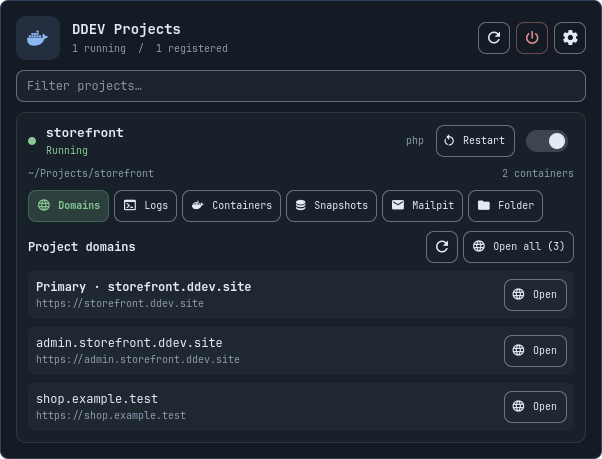
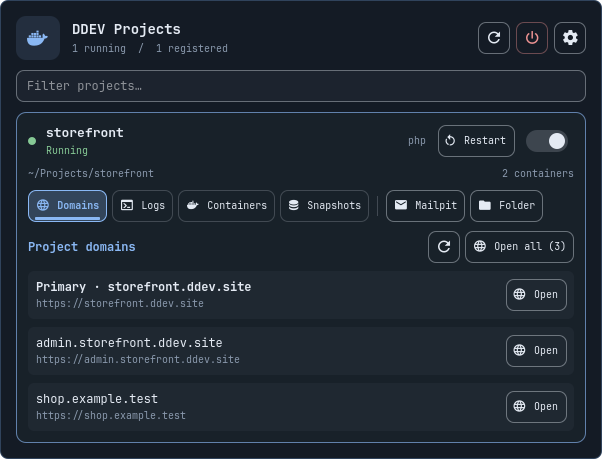
Highlight active detail tabs and show one view at a time

diff --git a/Panel.qml b/Panel.qml
@@ -27,8 +27,28 @@ Panel {
     property bool monitoringEnabled: true
     property bool alertsEnabled: Boolean(setting("alertsEnabled", true))
     property var containers: []
-    property string applicationProject: ""
-    property string domainProject: ""
+    property var activeDetail: ({project: "", tab: ""})
+    readonly property string detailProject: activeDetail.project
+    readonly property string applicationProject: activeDetail.tab === "containers" ? activeDetail.project : ""
+    readonly property string domainProject: activeDetail.tab === "domains" ? activeDetail.project : ""
+    function isDetail(name, tab) { return activeDetail.project === name && activeDetail.tab === tab }
+    function closeDetails() {
+        activeDetail = {project: "", tab: ""}
+        pendingRestore = ""
+        snapshots = []
+        var names = Object.keys(logViews)
+        for (var i = 0; i < names.length; i++) {
+            if (logFor(names[i]).open) {
+                updateLog(names[i], {open: false})
+                stopLog(names[i], false)
+            }
+        }
+    }
+    function activateDetail(name, tab) {
+        if (isDetail(name, tab)) return
+        closeDetails()
+        activeDetail = {project: name, tab: tab}
+    }
     property var domainViews: ({})
     function domainFor(name) { return domainViews[name] || {items: []} }
     function updateDomains(name, patch) {
@@ -37,8 +57,11 @@ Panel {
         domainViews = next
     }
     function showDomains(name) {
-        domainProject = domainProject === name ? "" : name
-        if (domainProject) { updateDomains(name, {error: ""}); execute("domains", name, "") }
+        if (isDetail(name, "domains")) { closeDetails(); return }
+        if (projectBusy(name)) return
+        activateDetail(name, "domains")
+        updateDomains(name, {error: ""})
+        execute("domains", name, "")
     }
     property string monitorWarning: ""
     property string eventWarning: ""
@@ -52,6 +75,7 @@ Panel {
         logViews = next
     }
     function selectLog(name) {
+        activateDetail(name, "logs")
         var view = logFor(name)
         // Opening an existing viewer must not clear a still-running stream.
         updateLog(name, {open: true, expanded: view.expanded === undefined ? false : view.expanded,
@@ -59,11 +83,11 @@ Panel {
         refreshLog(name)
     }
     function closeLog(name) {
-        updateLog(name, {open: false})
-        stopLog(name, false)
+        if (isDetail(name, "logs")) closeDetails()
+        else { updateLog(name, {open: false}); stopLog(name, false) }
     }
     function toggleLog(name) {
-        if (logFor(name).open) closeLog(name)
+        if (isDetail(name, "logs")) closeLog(name)
         else selectLog(name)
     }
     function logSignature(name) { return containersFor(name).map(c => c.id).sort().join(",") }
@@ -81,7 +105,7 @@ Panel {
     }
     function refreshLog(name) {
         var view = logFor(name)
-        if (!view.open) return
+        if (!view.open || !isDetail(name, "logs")) return
         if (logJobs[name]) {
             // A close/reopen can arrive before the previous reader exits.
             if (logJobs[name].cancelled) logJobs[name].restartRequested = true
@@ -106,8 +130,9 @@ Panel {
         monitor.running = true
     }
     function showApplications(name) {
-        applicationProject = applicationProject === name ? "" : name
-        if (applicationProject) refreshContainers()
+        if (isDetail(name, "containers")) { closeDetails(); return }
+        activateDetail(name, "containers")
+        refreshContainers()
     }
     function announce(alerts) {
         if (!monitoringEnabled || !alertsEnabled) return
@@ -142,7 +167,7 @@ Panel {
         entry.alertsEnabled = value
         if (bar && bar.shell && typeof bar.shell.updateEntryInline === "function") bar.shell.updateEntryInline(moduleName, entry)
     }
-    property string selectedName: ""
+    readonly property string selectedName: activeDetail.tab === "snapshots" ? activeDetail.project : ""
     property string warning: ""
     property var jobs: ({})
     readonly property bool busy: Object.keys(jobs).length > 0
@@ -164,6 +189,9 @@ Panel {
     property string pendingRestore: ""
     property string pendingLabel: ""
     property string query: ""
+    onQueryChanged: Qt.callLater(function() {
+        if (root.detailProject && !root.filteredProjects.some(p => p.name === root.detailProject)) root.closeDetails()
+    })
     property bool settingsOpen: false
     property bool poweroffConfirm: false
     property var projectOutputs: ({})
@@ -222,11 +250,10 @@ Panel {
         return true
     }
     function selectProject(name) {
+        if (isDetail(name, "snapshots")) { closeDetails(); return }
         if (projectBusy(name)) return
-        selectedName = selectedName === name ? "" : name
-        snapshots = []
-        pendingRestore = ""
-        if (selectedName) execute("snapshots", name, "")
+        activateDetail(name, "snapshots")
+        execute("snapshots", name, "")
     }
     function finishJob(job, exitCode) {
         if (!job.receivedResult) {
@@ -602,7 +629,7 @@ Panel {
                         radius: Style.space(10)
                         color: Util.alpha(projectRow.statusColor, busy ? 0.08 : 0.035)
                         border.width: 1
-                        border.color: Util.alpha(projectRow.statusColor, busy ? 0.5 : 0.18)
+                        border.color: root.detailProject === modelData.name ? Util.alpha(Commons.Color.accent, 0.65) : Util.alpha(projectRow.statusColor, busy ? 0.5 : 0.18)
                         Behavior on color { ColorAnimation { duration: 180 } }
                         Column {
                             id: projectContent
@@ -668,35 +695,47 @@ Panel {
                                 objectName: "projectActions-" + projectRow.modelData.name
                                 width: parent.width
                                 spacing: Style.space(5)
-                                ToolbarAction {
+                                DetailTab {
+                                    projectName: projectRow.modelData.name
+                                    viewName: "domains"
                                     objectName: "openProjectSite-" + projectRow.modelData.name
-                                    text: "Domains"; iconText: ""; foreground: root.success
-                                    tooltipText: "Project domains and Open all"
-                                    selected: root.domainProject === projectRow.modelData.name
-                                    enabled: !projectRow.busy && projectRow.running
+                                    text: "Domains"; iconText: ""
+                                    tooltipText: selected ? "Close domains" : "Open project domains"
+                                    enabled: selected || (!projectRow.busy && projectRow.running)
                                     onClicked: root.showDomains(projectRow.modelData.name)
                                 }
-                                ToolbarAction {
+                                DetailTab {
+                                    projectName: projectRow.modelData.name
+                                    viewName: "logs"
                                     objectName: "openProjectLogs-" + projectRow.modelData.name
                                     text: "Logs"; iconText: ""
-                                    selected: !!root.logFor(projectRow.modelData.name).open
                                     tooltipText: root.logFor(projectRow.modelData.name).open ? "Close project logs" : "Open project logs"
                                     onClicked: root.toggleLog(projectRow.modelData.name)
                                 }
-                                ToolbarAction {
+                                DetailTab {
+                                    projectName: projectRow.modelData.name
+                                    viewName: "containers"
                                     objectName: "showProjectContainers-" + projectRow.modelData.name
                                     text: "Containers"; iconText: ""
-                                    selected: root.applicationProject === projectRow.modelData.name
-                                    tooltipText: "Container overview and live statistics"
+                                    tooltipText: selected ? "Close container overview" : "Open container overview"
                                     onClicked: root.showApplications(projectRow.modelData.name)
                                 }
-                                ToolbarAction {
+                                DetailTab {
+                                    projectName: projectRow.modelData.name
+                                    viewName: "snapshots"
                                     objectName: "showProjectSnapshots-" + projectRow.modelData.name
                                     text: "Snapshots"; iconText: ""
-                                    selected: root.selectedName === projectRow.modelData.name
-                                    tooltipText: "Database snapshots"
-                                    enabled: !projectRow.busy
+                                    tooltipText: selected ? "Close snapshots" : "Open database snapshots"
+                                    enabled: selected || !projectRow.busy
                                     onClicked: root.selectProject(projectRow.modelData.name)
+                                }
+                                Rectangle {
+                                    Layout.preferredWidth: 1
+                                    Layout.preferredHeight: Style.space(20)
+                                    Layout.leftMargin: Style.space(3)
+                                    Layout.rightMargin: Style.space(3)
+                                    Layout.alignment: Qt.AlignVCenter
+                                    color: Util.alpha(root.foreground, 0.2)
                                 }
                                 ToolbarAction {
                                     objectName: "openProjectMailpit-" + projectRow.modelData.name
@@ -719,7 +758,7 @@ Panel {
                                 visible: root.domainProject === projectRow.modelData.name
                                 RowLayout {
                                     width: parent.width
-                                    Label { text: "Project domains"; font.bold: true; Layout.fillWidth: true }
+                                    Label { text: "Project domains"; color: Commons.Color.accent; font.bold: true; Layout.fillWidth: true }
                                     IconAction { iconText: ""; tooltipText: "Refresh domains"; enabled: !projectRow.busy; onClicked: root.execute("domains", projectRow.modelData.name, "") }
                                     ToolbarAction {
                                         objectName: "openAllDomains-" + projectRow.modelData.name
@@ -763,7 +802,7 @@ Panel {
                                 width: parent.width
                                 spacing: Style.space(8)
                                 visible: root.applicationProject === projectRow.modelData.name
-                                Label { text: "Containers"; font.bold: true }
+                                Label { text: "Containers"; color: Commons.Color.accent; font.bold: true }
                                 Label { width: parent.width; text: root.monitorWarning; visible: text !== ""; wrapMode: Text.Wrap; color: root.progress }
                                 Label { text: "No containers found. Start the project to create them."; visible: projectRow.serviceContainers.length === 0; width: parent.width; wrapMode: Text.Wrap; color: root.muted }
                                 Repeater {
@@ -800,10 +839,10 @@ Panel {
                             Column {
                                 width: parent.width
                                 spacing: Style.space(8)
-                                visible: !!root.logFor(projectRow.modelData.name).open
+                                visible: root.isDetail(projectRow.modelData.name, "logs") && !!root.logFor(projectRow.modelData.name).open
                                 RowLayout {
                                     width: parent.width
-                                    Label { text: "Project logs"; Layout.fillWidth: true; elide: Text.ElideRight; font.bold: true }
+                                    Label { text: "Project logs"; color: Commons.Color.accent; Layout.fillWidth: true; elide: Text.ElideRight; font.bold: true }
                                     Action { text: "Live"; selected: !!root.logFor(projectRow.modelData.name).live; onClicked: root.setLogLive(projectRow.modelData.name, !root.logFor(projectRow.modelData.name).live) }
                                     IconAction { iconText: ""; tooltipText: "Refresh logs"; onClicked: root.stopLog(projectRow.modelData.name, true) }
                                     IconAction { objectName: "closeProjectLogs-" + projectRow.modelData.name; iconText: ""; tooltipText: "Close log viewer"; onClicked: root.closeLog(projectRow.modelData.name) }
@@ -839,7 +878,7 @@ Panel {
                                 visible: root.selectedName === projectRow.modelData.name
                                 RowLayout {
                                     width: parent.width
-                                    Label { text: "Database snapshots"; font.bold: true; Layout.fillWidth: true }
+                                    Label { text: "Database snapshots"; color: Commons.Color.accent; font.bold: true; Layout.fillWidth: true }
                                     IconAction { iconText: ""; tooltipText: "Close snapshots"; enabled: !projectRow.busy; onClicked: root.selectProject(projectRow.modelData.name) }
                                 }
                                 RowLayout {
@@ -995,9 +1034,25 @@ Panel {
         implicitHeight: Style.space(32)
         Layout.minimumWidth: implicitWidth
         Layout.alignment: Qt.AlignVCenter
-        horizontalPadding: Style.space(8)
+        horizontalPadding: Style.space(7)
         verticalPadding: 0
         iconSize: Style.space(14)
+    }
+    component DetailTab: ToolbarAction {
+        id: detailTab
+        property string projectName: ""
+        property string viewName: ""
+        selected: root.isDetail(projectName, viewName)
+        foreground: selected ? Commons.Color.accent : root.foreground
+        color: selected ? Util.alpha(Commons.Color.accent, 0.24) : (hot || activeFocus ? Util.alpha(root.foreground, 0.08) : "transparent")
+        borderSpec: Border.flat(selected || activeFocus ? Commons.Color.accent : Util.alpha(root.foreground, 0.2), 1)
+        Rectangle {
+            visible: detailTab.selected
+            anchors { left: parent.left; right: parent.right; bottom: parent.bottom; leftMargin: Style.space(7); rightMargin: Style.space(7); bottomMargin: Style.space(2) }
+            height: Style.space(3)
+            radius: height / 2
+            color: Commons.Color.accent
+        }
     }
     component IconAction: Action {
         implicitWidth: Style.space(32)

diff --git a/tests/tabs.qml b/tests/tabs.qml
@@ -1,0 +1,45 @@
+import QtQuick
+import Quickshell
+ShellRoot {
+    id: test
+    function check(ok, label) { if (!ok) throw new Error(label); console.log(label + " OK") }
+    Loader { id: plugin; source: "plugin/Panel.qml" }
+    Timer {
+        interval: 400; running: true
+        onTriggered: {
+            var root = plugin.item
+            root.testFind("showProjectContainers-demo").clicked()
+            test.check(root.testFind("showProjectContainers-demo").selected, "CONTAINERS_TAB_HIGHLIGHTED")
+            root.testFind("openProjectLogs-demo").clicked()
+            test.check(!root.applicationProject && !root.testFind("showProjectContainers-demo").selected && root.testFind("openProjectLogs-demo").selected, "SWITCH_REPLACES_ACTIVE_TAB_AND_HIGHLIGHT")
+            test.check(!root.testFind("openProjectFolder-demo").selected, "LAUNCH_ACTION_IS_NOT_A_TAB")
+        }
+    }
+    Timer {
+        interval: 800; running: true
+        onTriggered: {
+            var root = plugin.item
+            test.check(!!root.logJobs.demo && root.logFor("demo").open, "LOG_READER_STARTED")
+            root.activateDetail("other", "containers")
+            test.check(root.applicationProject === "other" && !root.logFor("demo").open && root.logJobs.demo.cancelled, "CROSS_PROJECT_SWITCH_CLOSES_LOGS")
+            test.check(!root.testFind("openProjectLogs-demo").selected, "PREVIOUS_PROJECT_HIGHLIGHT_CLEARED")
+            root.selectProject("demo")
+            test.check(root.selectedName === "demo" && !root.applicationProject, "SNAPSHOTS_REPLACE_OTHER_PROJECT_DETAIL")
+            root.selectProject("demo")
+            test.check(!root.detailProject && !root.selectedName, "SELECTED_TAB_CLOSES_WHILE_LOADING")
+        }
+    }
+    Timer {
+        interval: 1600; running: true
+        onTriggered: {
+            var root = plugin.item
+            test.check(!root.logJobs.demo && !root.detailProject && root.snapshots.length === 0, "HIDDEN_READER_RELEASED_AND_LATE_RESULT_STAYS_CLOSED")
+            root.showApplications("demo")
+            root.showApplications("demo")
+            test.check(!root.detailProject && !root.testFind("showProjectContainers-demo").selected, "SECOND_CLICK_CLEARS_SELECTION")
+            console.log("TABS_CHECKS_PASSED")
+            Qt.quit()
+        }
+    }
+    Timer { interval: 5000; running: true; onTriggered: Qt.quit() }
+}

diff --git a/tests/features.qml b/tests/features.qml
@@ -33,7 +33,7 @@ ShellRoot {
             root.applyInventory(test.inventory("running", "healthy"), true)
             root.flushAlerts()
             test.check(root.testAlerts.length === 0, "NO_INITIAL_INVENTORY_ALERTS")
-            root.applicationProject = "demo"
+            root.showApplications("demo")
             test.check(root.containersFor("demo").length === 2 && root.containersFor("demo")[0].stats.cpu === "2.5%", "CONTAINER_INVENTORY_AND_STATS")
             root.receiveEvent(test.event("health_status: unhealthy"))
             root.receiveEvent(test.event("health_status: unhealthy", "db"))
@@ -63,6 +63,7 @@ ShellRoot {
             root.receiveEvent({project: "unregistered", service: "web", id: test.cid, action: "die"})
             root.flushAlerts()
             test.check(root.testAlerts.length === 4, "PROJECT_ALERTS_DEDUPLICATED_AND_SCOPED")
+            test.check(root.testFind("containerOverview-" + test.cid).implicitHeight <= Style.space(40), "READ_ONLY_CONTAINER_OVERVIEW_IS_COMPACT")
             root.selectLog("demo")
             test.check(root.execute("folder", "demo", ""), "PROJECT_ACTION_ACCEPTED_WITH_LOG_STREAM_ACTIVE")
         }
@@ -87,7 +88,6 @@ ShellRoot {
             var root = plugin.item
             test.check(!root.testFind("pauseContainer-" + test.cid), "NO_PER_CONTAINER_MUTATION_CONTROL")
             test.check(!root.canRun("pause", "demo") && !root.canRun("resume", "demo"), "REMOVED_ACTIONS_REJECTED_BY_UI")
-            test.check(root.testFind("containerOverview-" + test.cid).implicitHeight <= Style.space(40), "READ_ONLY_CONTAINER_OVERVIEW_IS_COMPACT")
             test.check(root.testFind("projectLogs-demo").text.indexOf("[db]") >= 0, "INLINE_PROJECT_LOG_VIEWER_RENDERED")
             test.check(!root.logJobs.demo && !root.logFor("demo").error, "STOPPING_LIVE_LOGS_CLEANS_UP_READER")
         }

diff --git a/tools/preview.qml b/tools/preview.qml
@@ -27,17 +27,18 @@ ShellRoot {
         }
         panel.applyInventory(demoContainers, false)
         if (scene === "domains") {
-            panel.domainProject = "storefront"
+            panel.activateDetail("storefront", "domains")
             panel.updateDomains("storefront", {items: [
                 {url: "https://storefront.ddev.site", host: "storefront.ddev.site", primary: true},
                 {url: "https://admin.storefront.ddev.site", host: "admin.storefront.ddev.site", primary: false},
                 {url: "https://shop.example.test", host: "shop.example.test", primary: false}
             ], error: ""})
         }
-        if (scene === "applications") panel.applicationProject = "storefront"
+        if (scene === "applications") panel.activateDetail("storefront", "containers")
+        if (scene === "logs") panel.activateDetail("storefront", "logs")
         if (scene === "logs") panel.updateLog("storefront", {open: true, live: true, expanded: true, error: "", text: "[web] 2026-01-01T12:00:00Z Web server ready\n[db] 2026-01-01T12:00:01Z Database ready\n[web] 2026-01-01T12:00:02Z GET /assets/app.css 200\n[web] 2026-01-01T12:00:05Z GET /api/products 200"})
         if (scene === "snapshots") {
-            panel.selectedName = "storefront"
+            panel.activateDetail("storefront", "snapshots")
             panel.snapshots = [
                 {name: "before-release-mariadb_11.8.zst", path: "/example/snapshots/before-release-mariadb_11.8.zst", size: 48234496, modified: 1768471200},
                 {name: "baseline-mariadb_11.8.zst", path: "/example/snapshots/baseline-mariadb_11.8.zst", size: 36700160, modified: 1768384800}

diff --git a/test_ui.py b/test_ui.py
@@ -36,7 +36,7 @@ with tempfile.TemporaryDirectory(prefix='ddev-ui-check-') as directory:
     env = os.environ.copy()
     env['QT_QPA_PLATFORM'] = 'wayland'
     env['QT_QPA_PLATFORMTHEME'] = ''
-    for suite, fixture, marker in (('concurrency', 'concurrency', 'CONCURRENCY_CHECKS_PASSED'), ('features', 'features', 'FEATURE_CHECKS_PASSED'), ('log_reentry', 'features', 'LOG_REENTRY_CHECKS_PASSED'), ('domains', 'features', 'DOMAINS_CHECKS_PASSED')):
+    for suite, fixture, marker in (('concurrency', 'concurrency', 'CONCURRENCY_CHECKS_PASSED'), ('features', 'features', 'FEATURE_CHECKS_PASSED'), ('log_reentry', 'features', 'LOG_REENTRY_CHECKS_PASSED'), ('domains', 'features', 'DOMAINS_CHECKS_PASSED'), ('tabs', 'features', 'TABS_CHECKS_PASSED')):
         shutil.copy2(project / ('tests/' + fixture + '_backend.py'), root / 'plugin/backend.py')
         shutil.copy2(project / ('tests/' + suite + '.qml'), root / 'shell.qml')
         result = subprocess.run(['quickshell', '-p', str(root / 'shell.qml')], env=env,

diff --git a/README.md b/README.md
@@ -23,6 +23,7 @@ Previews render the actual plugin interface with fictional projects, paths, snap
 
 - Lists every project returned by `ddev list -j`, with live status every 15 seconds.
 - Sliding start/stop switches, colored project status cards, a distinct, labelled Restart control beside each power switch (enabled only for running projects), and icon shortcuts for browse, Mailpit, and the project folder.
+- Detail tabs use an accent fill, border, and underline to show which view is open. Only one detail view opens at a time across all projects; clicking the selected tab closes it. Mailpit and Folder are separated as launch actions.
 - Project actions share one left-aligned row: Domains, Logs, Containers, Snapshots, Mailpit, and Folder, all with labels.
 - Filter by project name or path.
 - Compact container overview with health, CPU and memory; additional metrics on hover.
